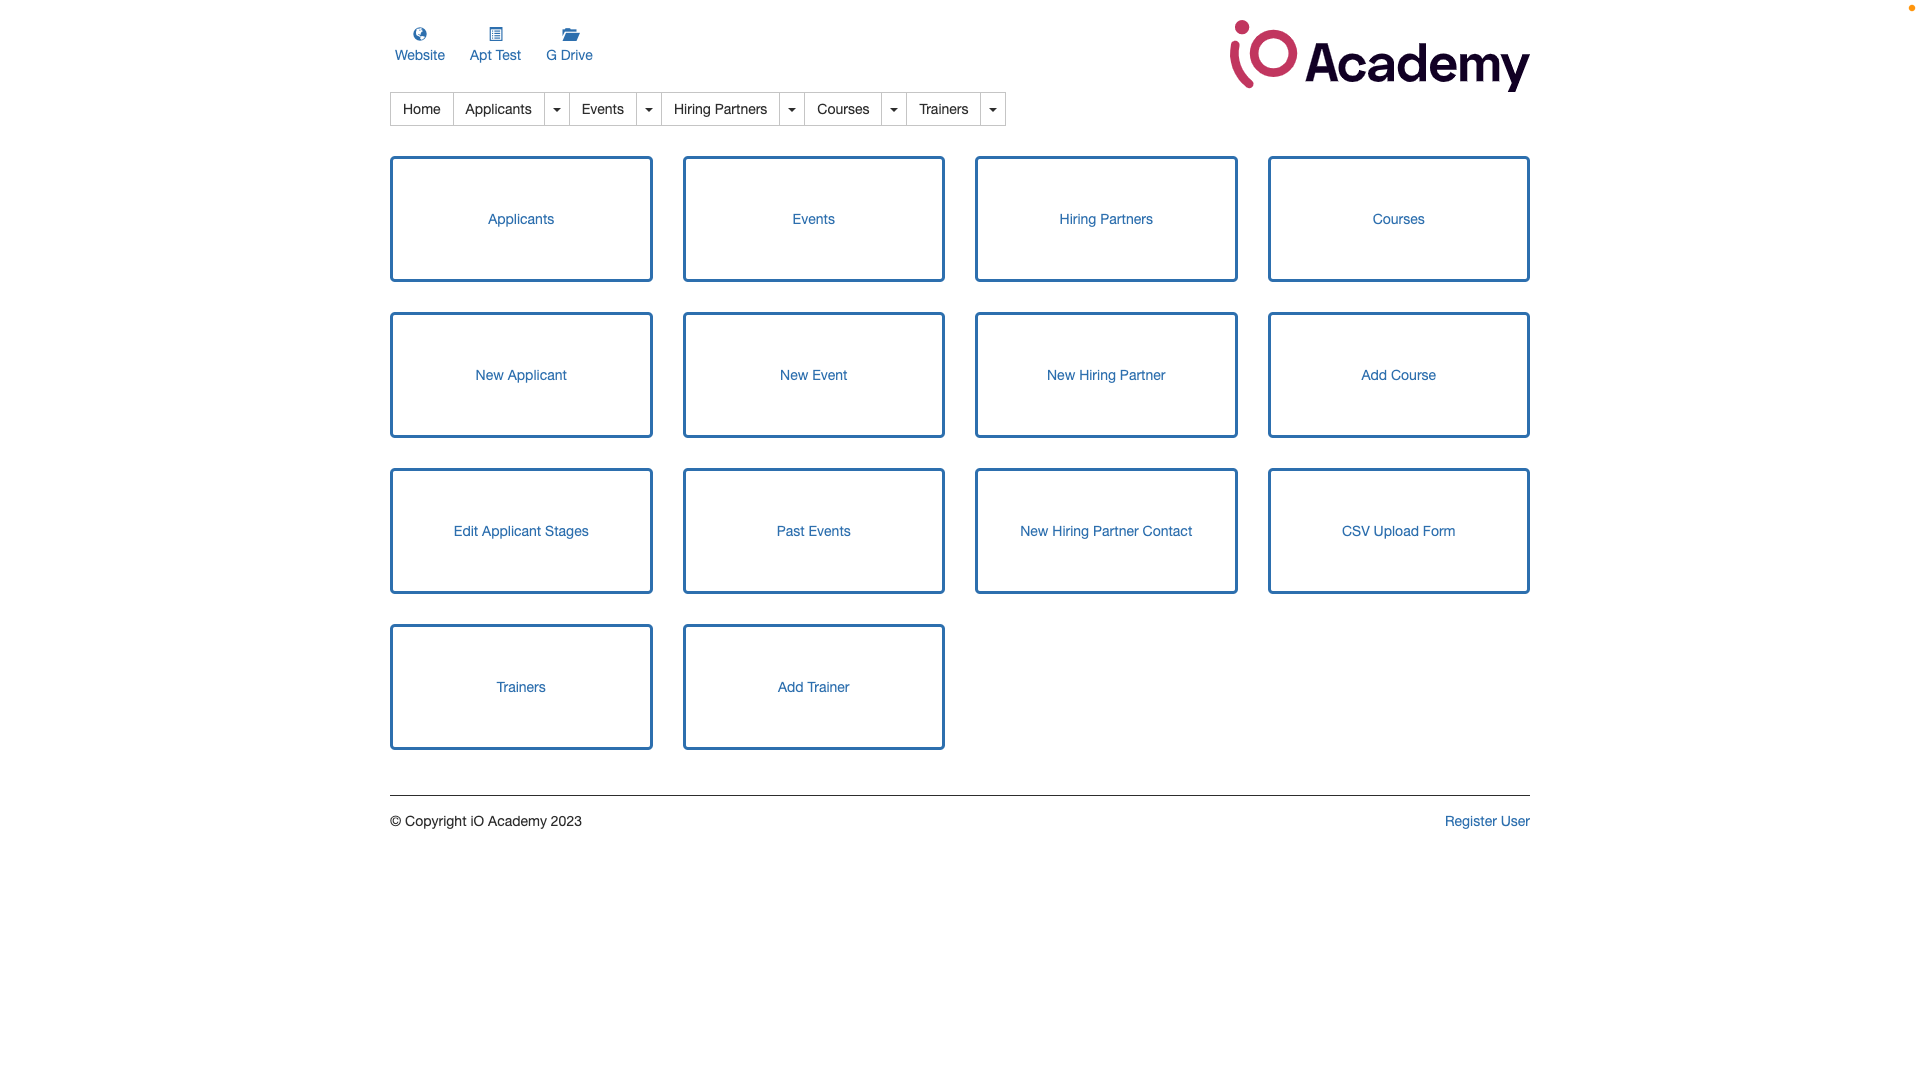
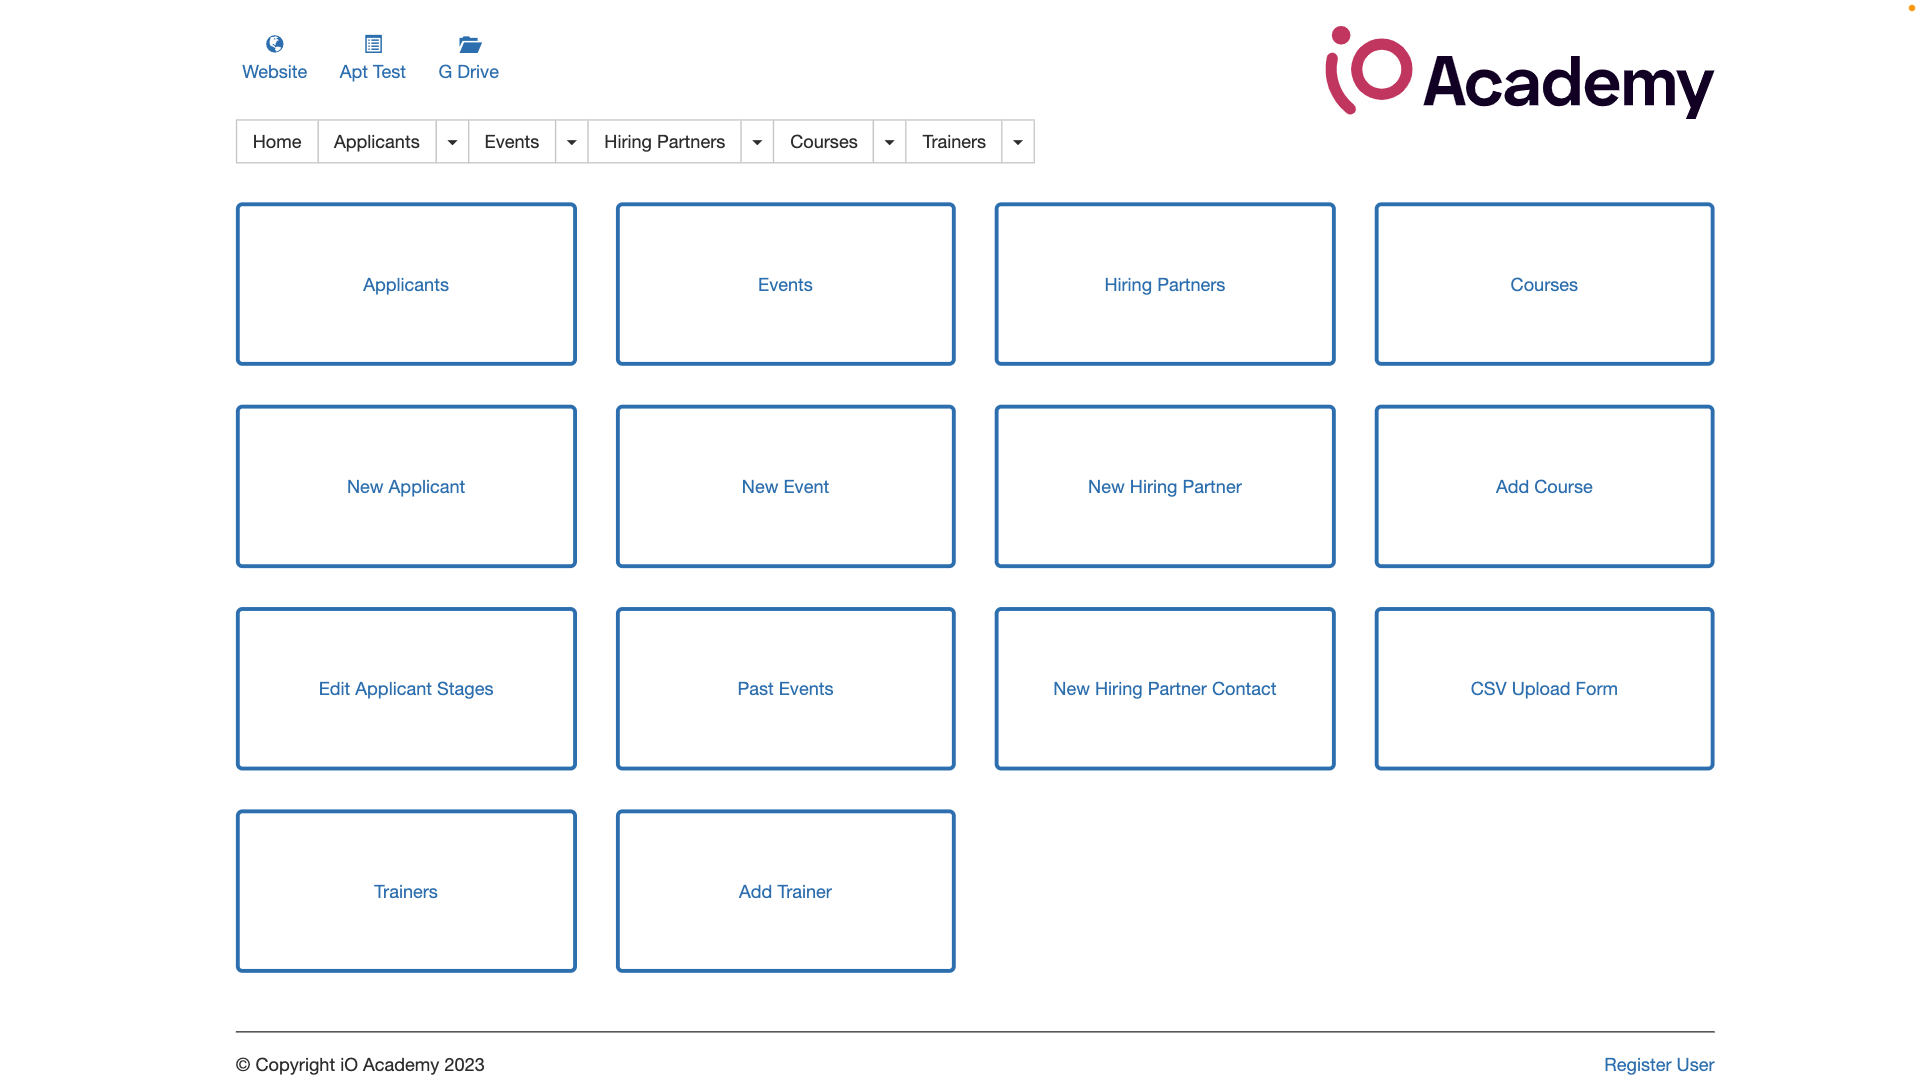
updated

diff --git a/index.html b/index.html
@@ -56,7 +56,7 @@
 
 			<div class=" col-12 col-md-6 col-lg-4 cardHolder">
 				<article class="card border-0 rounded">
-					<img src="images/legacy2.png" class="card-img-top rounded" alt='screenshot of project management API'>
+					<img src="images/legacy.png" class="card-img-top rounded" alt='screenshot of project management API'>
 					<div class="card-body">
 						<h4 class="card-title">ACADEMY PORTAL</h4>
 						<p class="card-text">Working on a legacy database, we were tasked with editing the Academy Portal and bug fixing. I worked on creating checkbox event listeners which made form inputs appear and the error handling if inputs did not meet validation. This project was built using JavaScript.</p>
